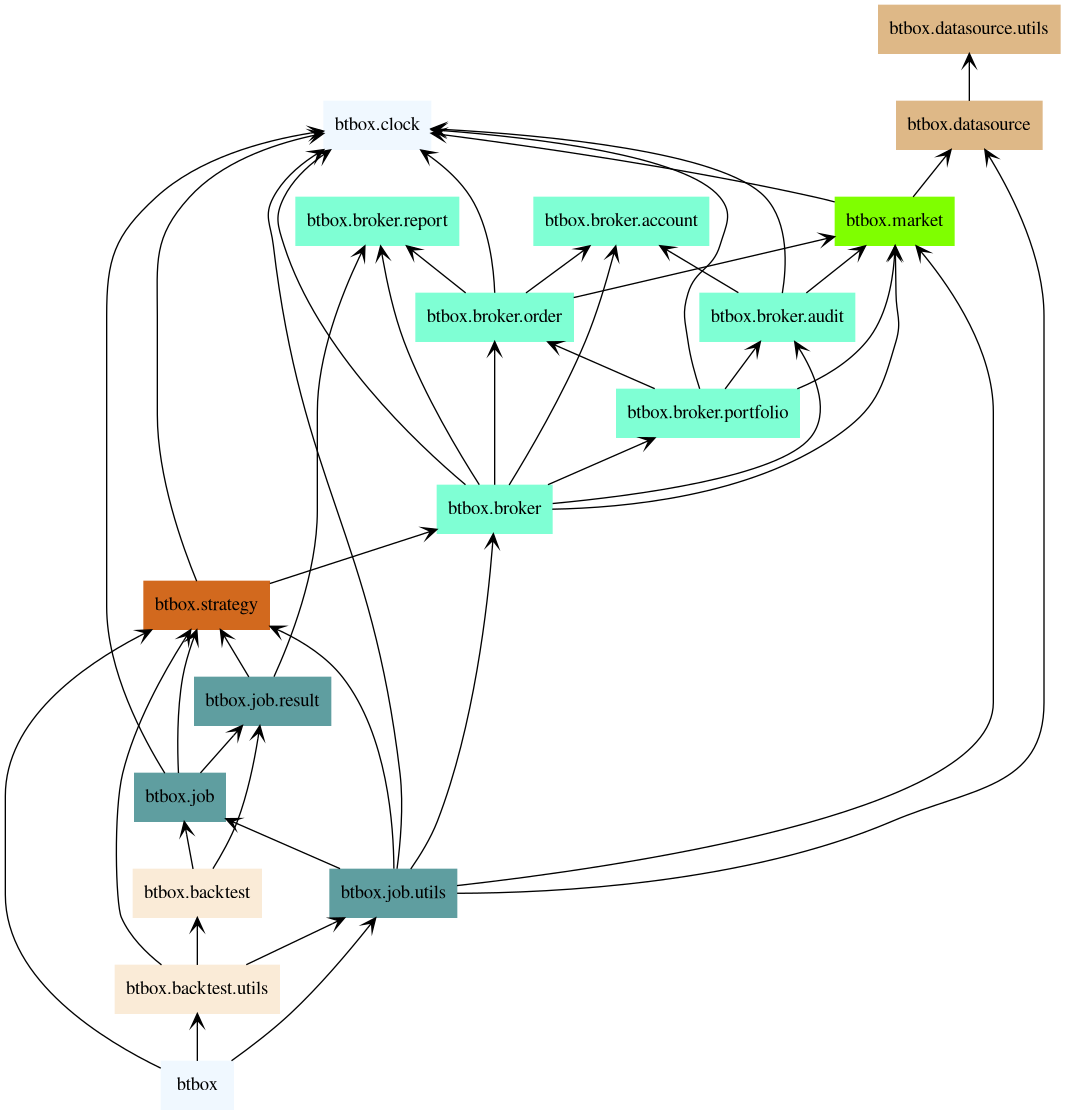
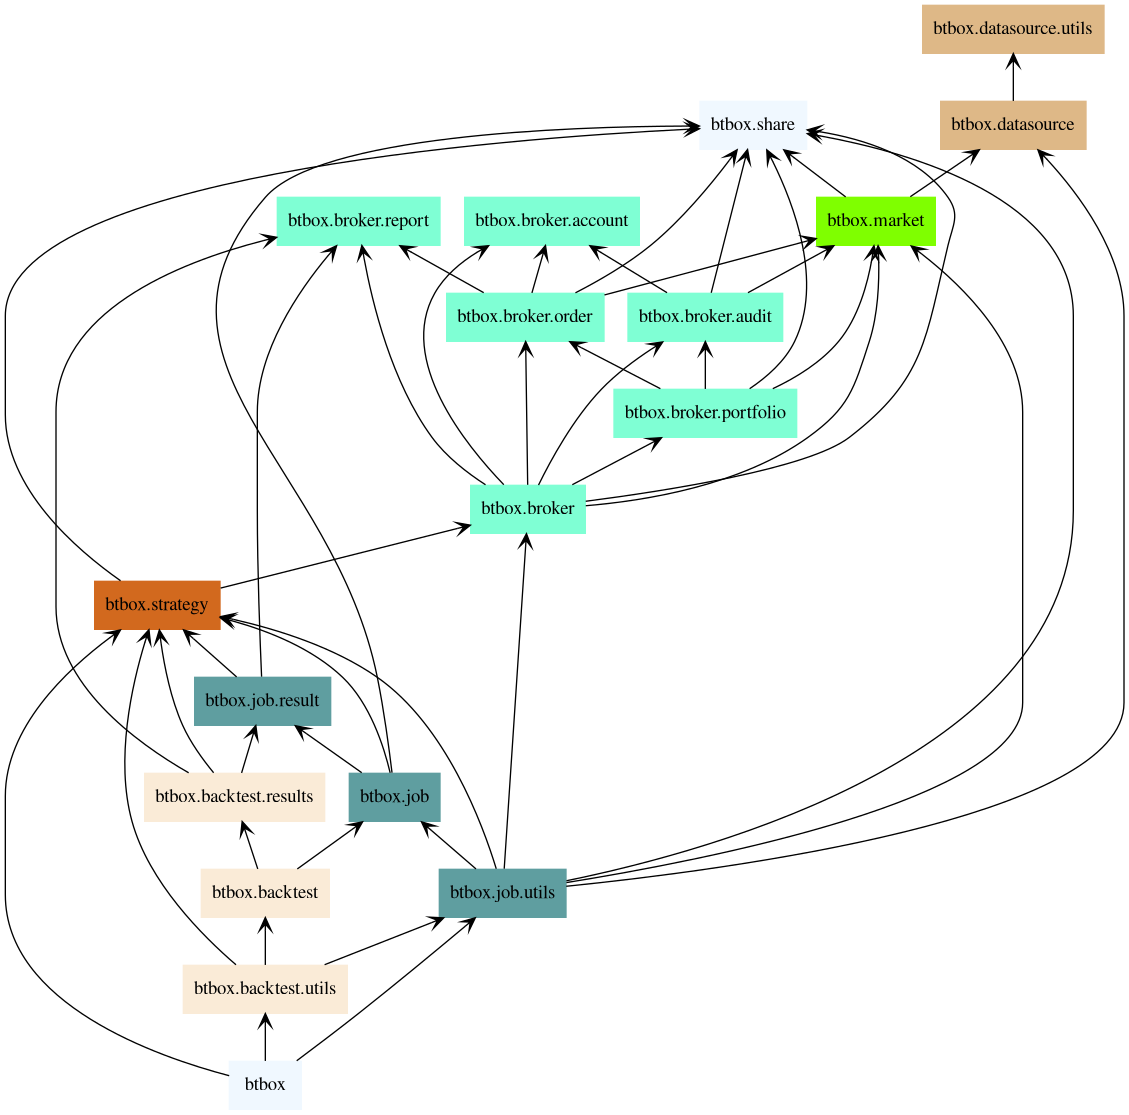
feat: multiple strategies plotting together

diff --git a/btbox/backtest/results.py b/btbox/backtest/results.py
@@ -1,0 +1,32 @@
+from typing import List
+from btbox.broker.report import Report
+from btbox.job.result import Result
+from pandas import DataFrame, concat
+import plotly.express as px
+
+from btbox.strategy import Strategy
+
+
+class Results:
+    def __init__(self,
+                 results: List[Result]) -> None:
+        self._strategies = [r.strategy for r in results]
+        self._reports = [r.report for r in results]
+
+    @property
+    def strategies(self) -> List[Strategy]:
+        return self._strategies
+
+    @property
+    def reports(self) -> List[Report]:
+        return self._reports
+
+    @property
+    def navs(self) -> DataFrame:
+        df = concat([r.nav for r in self._reports], axis=1)
+        df.columns = [s.name for s in self._strategies]
+        return df
+
+    def plot(self, **line_kws):
+        fig = px.line(self.navs, **line_kws)
+        fig.show()

diff --git a/btbox/backtest/__init__.py b/btbox/backtest/__init__.py
@@ -1,6 +1,6 @@
 from typing import List
+from btbox.backtest.results import Results
 from btbox.job import Job
-from btbox.job.result import Result
 
 
 class Backtest:
@@ -8,9 +8,9 @@ class Backtest:
                  jobs: List[Job]) -> None:
         self._jobs = jobs
 
-    def run(self) -> List[Result]:
+    def run(self) -> Results:
         results = []
         for job in self._jobs:
             result = job.run()
             results.append(result)
-        return results
+        return Results(results)

diff --git a/tests/test_multi_jobs.py b/tests/test_multi_jobs.py
@@ -32,4 +32,5 @@ def test_multi_jobs_basic():
                 broker.portfolio.trade_target_weight(SYMBOL, 0.5)
 
     bt = create_backtest([Benchmark, CustomStrategy], dataframes)
-    bt.run()
+    results = bt.run()
+    assert results is not None

diff --git a/btbox/job/result.py b/btbox/job/result.py
@@ -11,6 +11,10 @@ class Result:
         self._report = report
 
     @property
+    def strategy(self) -> Strategy:
+        return self._strategy
+
+    @property
     def report(self) -> Report:
         return self._report
 
